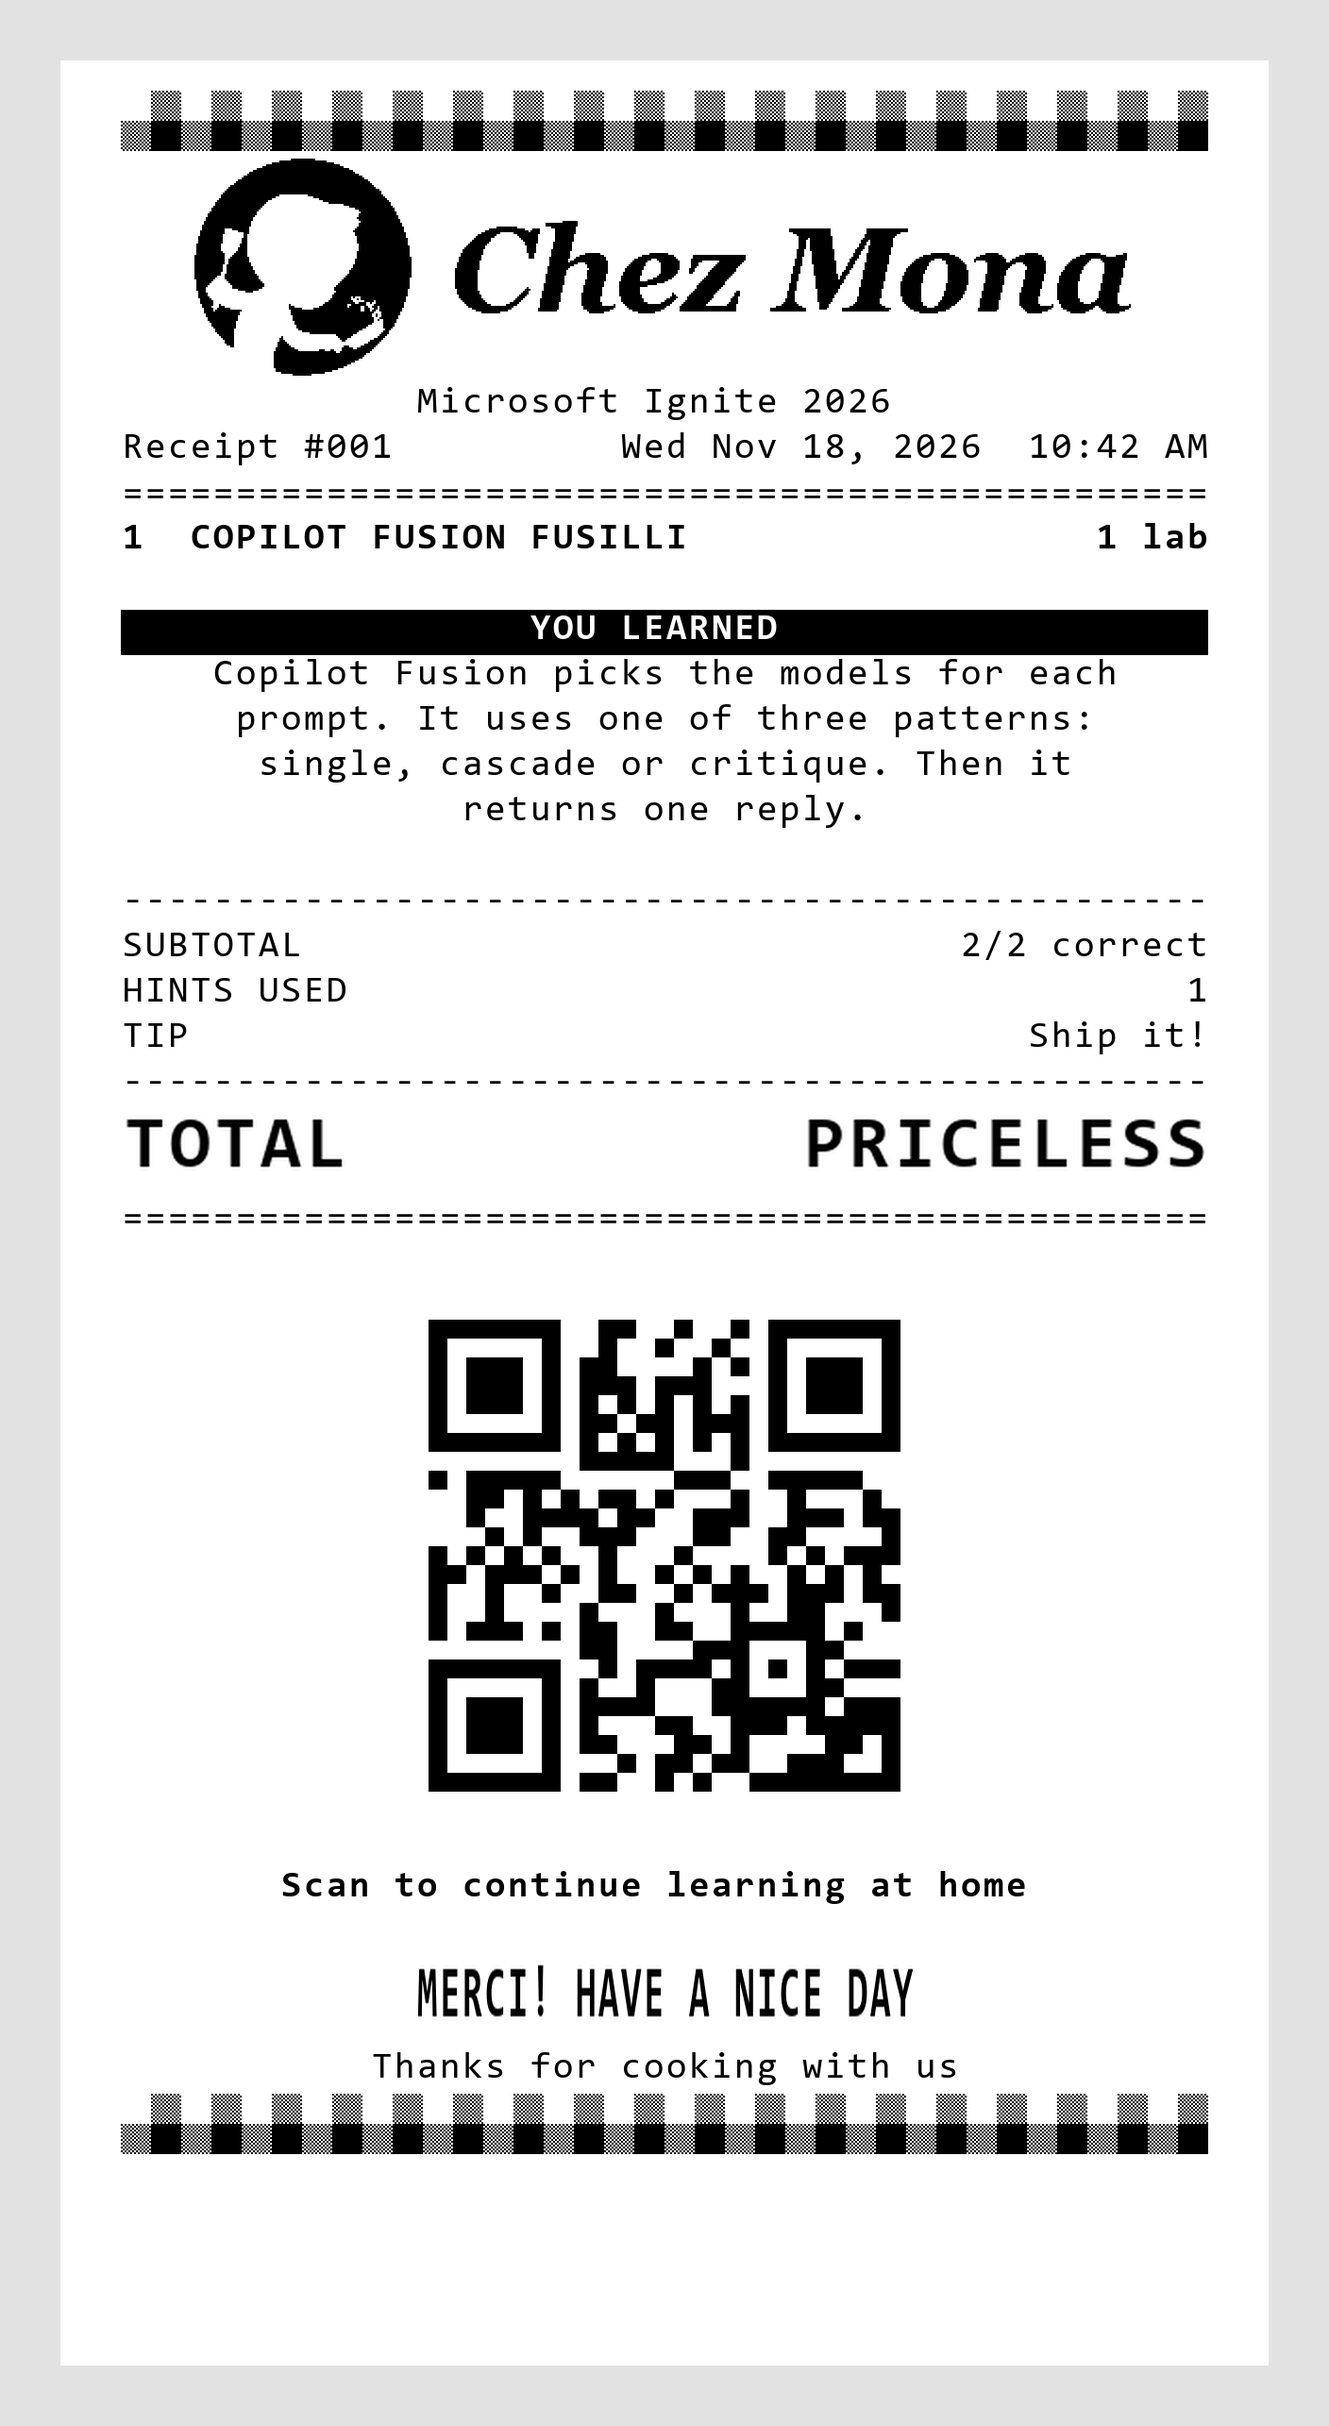
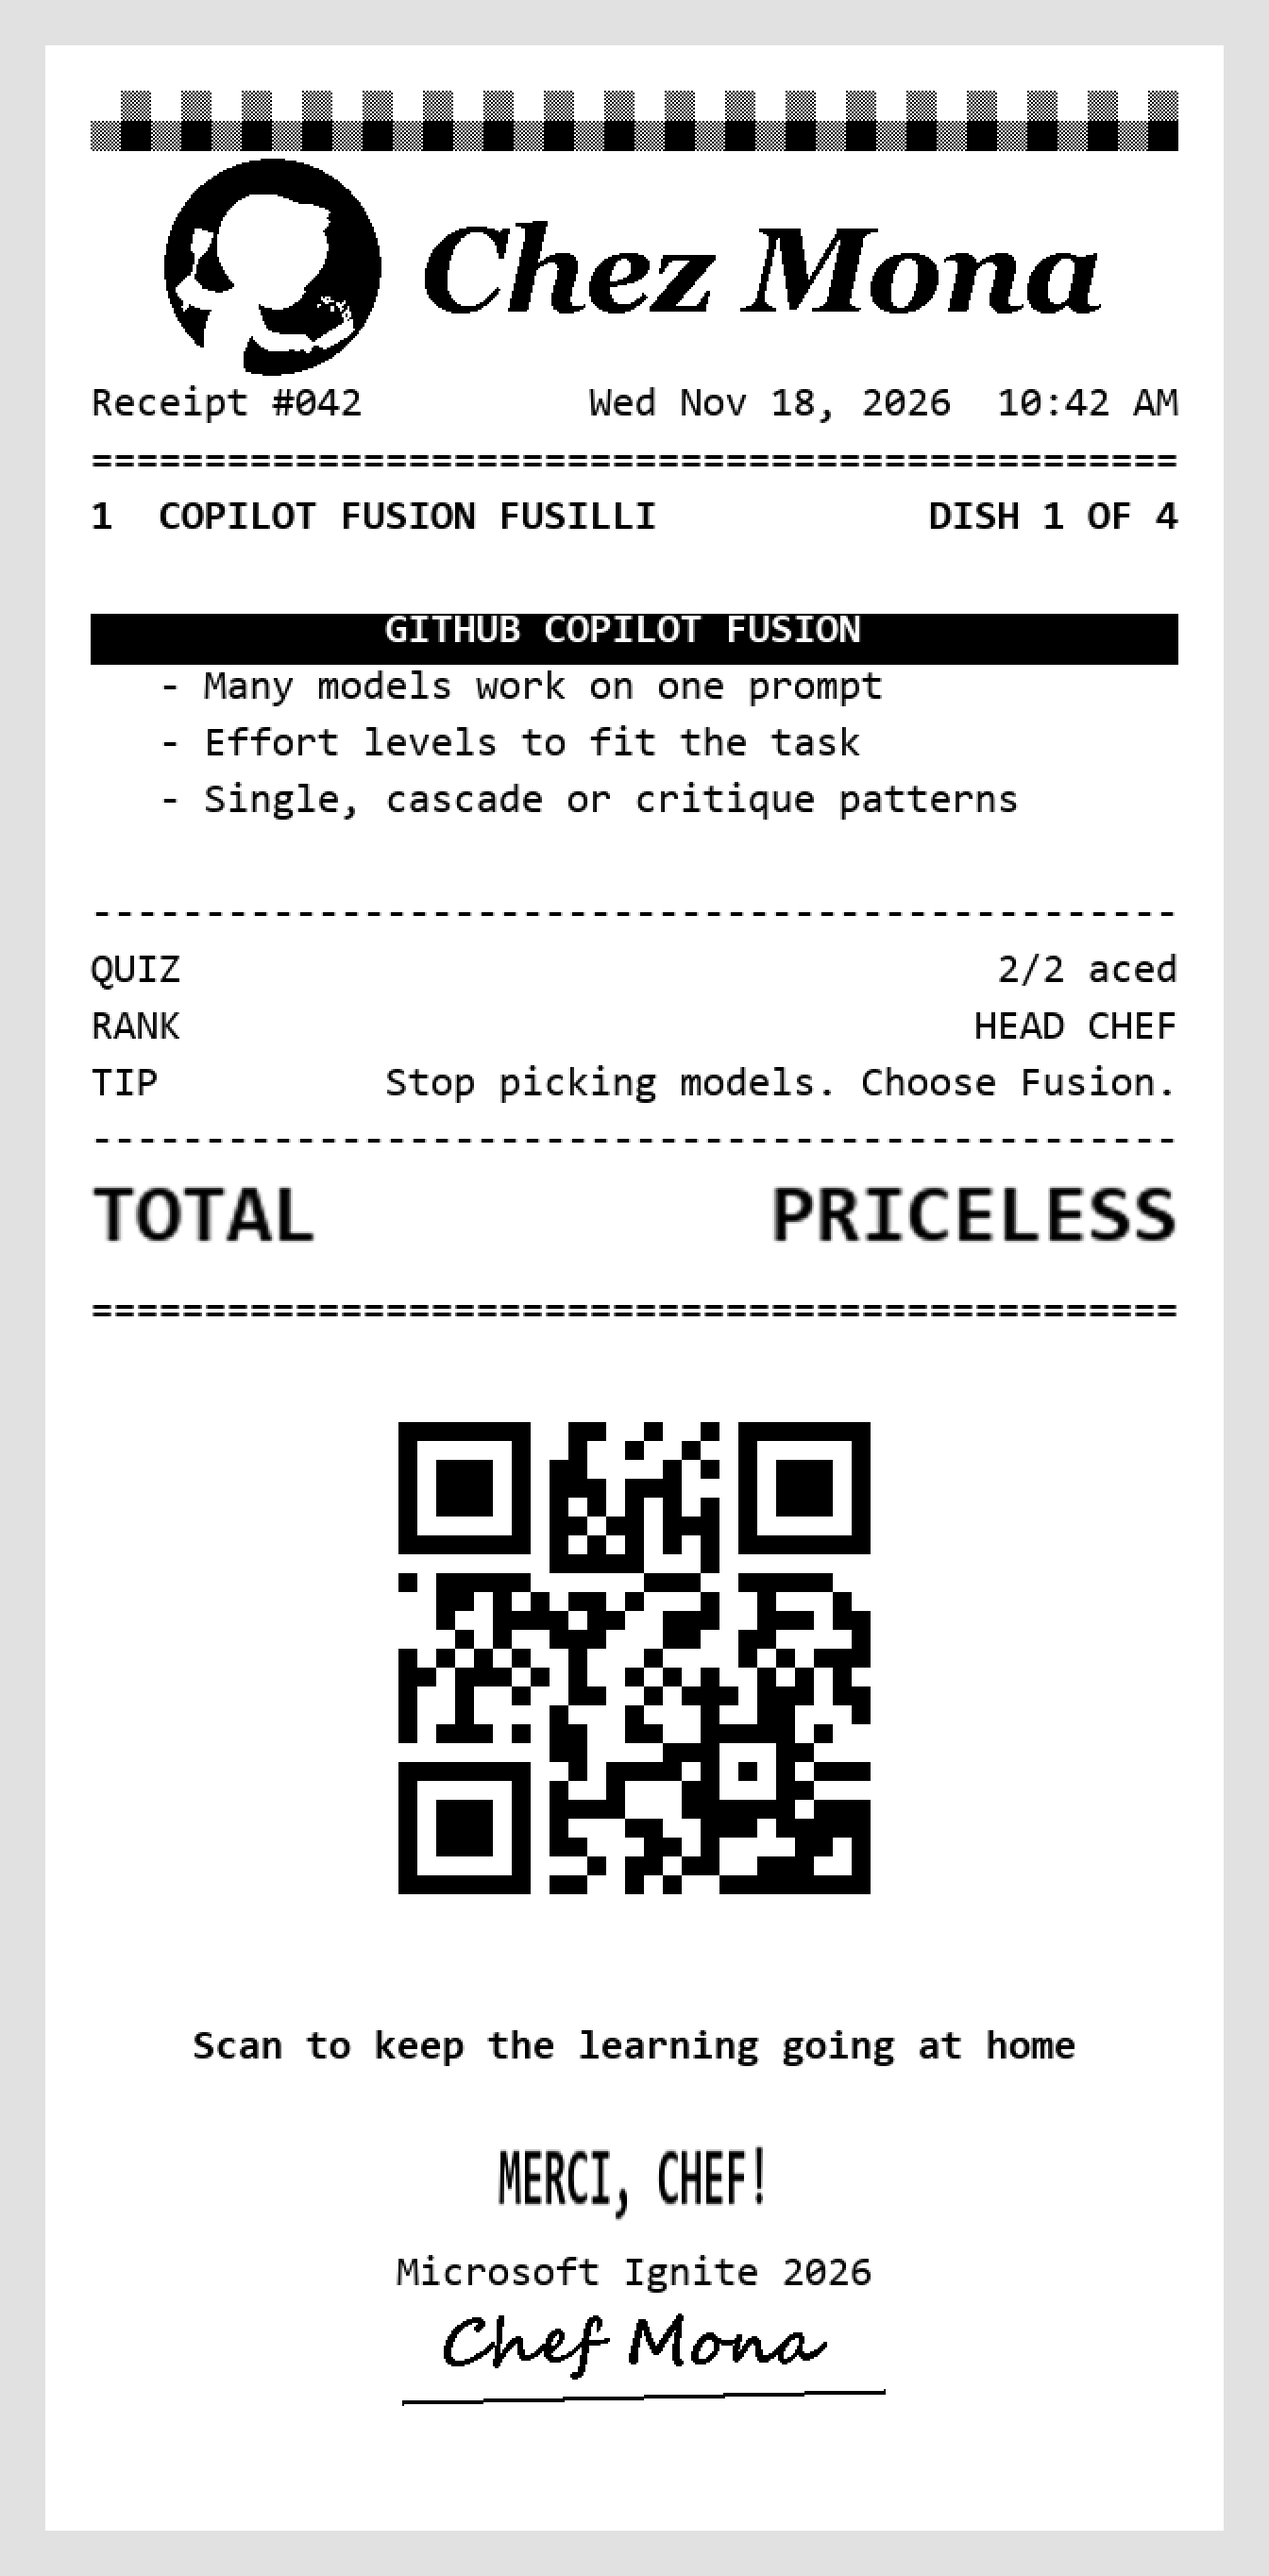
Make the station receipt a keepsake
Replace the receipt summary with a product name, three bullets and a
product tip. Add the dish position, a kitchen rank from hints, Ignite
branding and a Chef Mona signature. Wrap long right-side row text so it
fits narrow paper. Refresh the receipt screenshot.

Changed region(s): [[0.0312, 0.0, 0.9688, 0.9961], [0.0938, 0.7782, 0.9062, 0.9339], [0.3125, 0.4047, 0.375, 0.4358]]

diff --git a/launcher/chez_mona/receipt.py b/launcher/chez_mona/receipt.py
@@ -19,9 +19,10 @@ from PIL import Image, ImageDraw, ImageFont
 
 HEADER = "Chez Mona"
 EVENT = "Microsoft Ignite 2026"
-QR_CAPTION = "Scan to continue learning at home"
-THANKS = "Merci! Have a nice day"
-THANKS_LINE = "Thanks for cooking with us"
+QR_CAPTION = "Scan to keep the learning going at home"
+THANKS = "Merci, chef!"
+SIGNATURE = "Chef Mona"
+SIGNATURE_FONT = "segoescb.ttf"  # Segoe Script Bold
 TICKET_BAR = "Kitchen ticket"
 TICKET_CAPTION = "Take this to any open station and scan it"
 FONT_A_WIDTH = 12  # dots per character, Font A at normal size
@@ -107,45 +108,55 @@ def ticket_layout(dish: dict, at: datetime) -> list[Item]:
 
 @dataclass
 class Check:
-    """One printed receipt. hints holds wrong answers per question, or None if unknown."""
+    """One printed receipt. hints holds wrong answers per question, or None if unknown.
+    course is the dish position and the dish count, like (2, 4), or None if unknown."""
     at: datetime
     hints: list[int] | None = None
     number: int | None = None
+    course: tuple[int, int] | None = None
+
+
+def rank(hints: int) -> str:
+    """Kitchen rank from the total wrong answers."""
+    if hints == 0:
+        return "HEAD CHEF"
+    return "SOUS CHEF" if hints <= 2 else "LINE COOK"
 
 
 def layout(dish: dict, check: Check) -> list[Item]:
     """Take-home receipt printed at a cooking station. None is a blank line."""
     answered = len(dish["quiz"])
+    card = dish["receipt"]
+    course = f"DISH {check.course[0]} OF {check.course[1]}" if check.course else ""
     items: list[Item] = [
         Picture("gingham", gingham),
         Picture("wordmark", wordmark),
-        Line(EVENT),
         Row(f"Receipt #{check.number:03d}",
             f"{check.at:%a %b} {check.at.day}, {check.at:%Y}  {clock(check.at)}")
         if check.number is not None else
         Line(f"{check.at:%a %b} {check.at.day}, {check.at:%Y}  {clock(check.at)}"),
         Rule("="),
-        Row(f"1  {dish['dish'].upper()}", "1 lab", bold=True),
+        Row(f"1  {dish['dish'].upper()}", course, bold=True),
         None,
-        Line("YOU LEARNED", bold=True, invert=True),
-        Line(dish["receipt"]["summary"], margin=3),
+        Line(card["product"].upper(), bold=True, invert=True),
+        *[Line(point, align="left", indent=3, bullet="- ") for point in card["bullets"]],
         None,
         Rule(),
-        Row("SUBTOTAL", f"{answered}/{answered} correct"),
+        Row("QUIZ", f"{answered}/{answered} aced"),
     ]
     if check.hints is not None:
-        items.append(Row("HINTS USED", str(sum(check.hints))))
+        items.append(Row("RANK", rank(sum(check.hints))))
     items += [
-        Row("TIP", "Ship it!"),
+        Row("TIP", card["tip"]),
         Rule(),
         Row("TOTAL", "PRICELESS", bold=True, size=2),
         Rule("="),
-        Qr(dish["receipt"]["qr"]),
+        Qr(card["qr"]),
         Line(QR_CAPTION, bold=True),
         None,
         Line(THANKS.upper(), height=2, bold=True),
-        Line(THANKS_LINE),
-        Picture("gingham", gingham),
+        Line(EVENT),
+        Picture("signature", signature),
     ]
     return items
 
@@ -197,6 +208,19 @@ def wordmark(width_dots: int) -> Image.Image:
     image.paste(disc, (x, 4))
     y = (image.height - (bottom - top)) // 2 - top
     ImageDraw.Draw(image).text((x + disc.width + gap - left, y), HEADER, font=face, fill=0)
+    return image
+
+
+def signature(width_dots: int) -> Image.Image:
+    """"Chef Mona" in a script font over a slanted pen stroke."""
+    face = font(SIGNATURE_FONT, int(width_dots * 0.06))
+    left, top, right, bottom = ImageDraw.Draw(Image.new("1", (1, 1))).textbbox((0, 0), SIGNATURE, font=face)
+    image = Image.new("1", (width_dots, bottom - top + 18), 1)
+    draw = ImageDraw.Draw(image)
+    x = (width_dots - (right - left)) // 2
+    draw.text((x - left, 2 - top), SIGNATURE, font=face, fill=0)
+    y = bottom - top + 8
+    draw.line([(x - 20, y + 6), (x + right - left + 30, y)], fill=0, width=3)
     return image
 
 
@@ -266,9 +290,9 @@ def _row_lines(row: Row, columns: int) -> list[str]:
     left, right = plain(row.left), plain(row.right)
     lines = textwrap.wrap(left, columns)
     last = lines.pop() if lines else ""
-    if len(last) + len(right) + 1 > columns:
-        return lines + ([last, right.rjust(columns)] if last else [right.rjust(columns)])
-    return lines + [last + right.rjust(columns - len(last))]
+    if not right or len(last) + len(right) + 1 <= columns:
+        return lines + [last + right.rjust(columns - len(last))]
+    return lines + ([last] if last else []) + [part.rjust(columns) for part in textwrap.wrap(right, columns)]
 
 
 def render_escpos(items: list[Item], width_dots: int) -> bytes:

diff --git a/launcher/tests/test_receipt.py b/launcher/tests/test_receipt.py
@@ -27,18 +27,27 @@ class ReceiptTest(unittest.TestCase):
             data = receipt.escpos(DISHES["dip"], receipt.Check(AT, [0, 1]), width)
             self.assertTrue(data.startswith(b"\x1b@\x1ba\x01"))
             self.assertTrue(data.endswith(b"\x1bd\x04\x1dV\x42\x00"))
-            for text in (b"Thanks for cooking with us", b"DIP", b"Wed Nov 18, 2026", b"PRICELESS", b"Scan to continue learning", b"YOU LEARNED"):
+            for text in (b"MERCI, CHEF!", b"Microsoft Ignite 2026", b"DIP", b"Wed Nov 18, 2026", b"PRICELESS",
+                         b"CODE SCANNING + COPILOT"):
                 self.assertIn(text, data)
             if width == receipt.WIDTH_DOTS:
                 self.assertIn(receipt.QR_CAPTION.encode("ascii"), data)
+                self.assertIn(b"Ask Copilot to review your next PR", data)
             self.assertNotIn(b"No.", data)
             self.assertNotIn(b"GUEST CHECK", data)
 
-    def test_receipt_prints_the_summary_not_the_questions(self):
+    def test_receipt_prints_the_bullets_not_the_questions(self):
         dish = DISHES["fusilli"]
         texts = [line for line, _ in printed_lines(receipt.layout(dish, receipt.Check(AT)), 576)]
-        self.assertIn("Copilot Fusion picks the models for each", texts)
+        self.assertIn("   - Many models work on one prompt", texts)
         self.assertFalse(any(dish["quiz"][0]["question"] in t for t in texts))
+
+    def test_dish_position_only_when_known(self):
+        def dish_row(check):
+            return next(i.right for i in receipt.layout(DISHES["soup"], check) if isinstance(i, receipt.Row))
+
+        self.assertEqual(dish_row(receipt.Check(AT, course=(3, 4))), "DISH 3 OF 4")
+        self.assertEqual(dish_row(receipt.Check(AT)), "")
 
     def test_receipt_number_beside_date_and_time(self):
         for number in (1, 24, 1000):
@@ -54,20 +63,32 @@ class ReceiptTest(unittest.TestCase):
                 for line, columns in printed_lines(items, width):
                     self.assertLessEqual(len(line), columns, line)
 
-    def test_hint_line_only_when_hints_are_known(self):
+    def test_rank_only_when_hints_are_known(self):
         def rows(check):
-            return [i.left for i in receipt.layout(DISHES["soup"], check) if isinstance(i, receipt.Row)]
+            return {i.left: i.right for i in receipt.layout(DISHES["soup"], check) if isinstance(i, receipt.Row)}
 
-        self.assertIn("HINTS USED", rows(receipt.Check(AT, hints=[0, 2])))
-        self.assertNotIn("HINTS USED", rows(receipt.Check(AT)))
+        self.assertEqual(rows(receipt.Check(AT, hints=[0, 0]))["RANK"], "HEAD CHEF")
+        self.assertEqual(rows(receipt.Check(AT, hints=[0, 2]))["RANK"], "SOUS CHEF")
+        self.assertEqual(rows(receipt.Check(AT, hints=[1, 2]))["RANK"], "LINE COOK")
+        self.assertNotIn("RANK", rows(receipt.Check(AT)))
 
     def test_text_fits_the_paper(self):
         for width in (384, 576):
             for dish in DISHES.values():
-                for items in (receipt.layout(dish, receipt.Check(AT, [3, 3])),
+                for items in (receipt.layout(dish, receipt.Check(AT, [3, 3], 1000, (2, 4))),
                               receipt.ticket_layout(dish, AT)):
                     for line, columns in printed_lines(items, width):
                         self.assertLessEqual(len(line), columns, line)
+
+    def test_receipt_copy_fits_one_line_on_the_station_printer(self):
+        columns = receipt.WIDTH_DOTS // receipt.FONT_A_WIDTH
+        for dish in DISHES.values():
+            items = [i for i in receipt.layout(dish, receipt.Check(AT, [0, 0])) if isinstance(i, receipt.Line)]
+            for item in items:
+                if item.text in dish["receipt"]["bullets"] or item.text == dish["receipt"]["product"].upper():
+                    self.assertEqual(len(receipt._text_lines(item, columns)), 1, item.text)
+            tip = receipt.Row("TIP", dish["receipt"]["tip"])
+            self.assertEqual(len(receipt._row_lines(tip, columns)), 1, tip.right)
 
     def test_pictures_span_the_paper(self):
         for width in (384, 576):

diff --git a/launcher/chez_mona/labs.py b/launcher/chez_mona/labs.py
@@ -13,7 +13,9 @@ CONTENT_DIR = LAUNCHER_DIR / "content"
 STATIC_DIR = LAUNCHER_DIR / "static"
 START_TYPES = {"none", "sdk", "open_url"}
 ACTION_TYPES = {"open_url", "open_vscode"}
-SUMMARY_MAX = 180  # about 4 receipt lines
+PRODUCT_MAX = 48  # one receipt line
+BULLET_MAX = 43  # one receipt line after the "   - " indent
+TIP_MAX = 44  # one receipt line beside "TIP"
 
 
 class ContentError(ValueError):
@@ -75,9 +77,14 @@ def validate(data: dict, content_dir: Path = CONTENT_DIR) -> None:
             _check(len(set(others + [q["answer"]])) == 4, f"{did} question {i}: choices must be unique")
         _check(dish.get("wrap_up"), f"{did}: needs wrap_up")
         receipt = dish.get("receipt", {})
-        summary = receipt.get("summary")
-        _check(isinstance(summary, str) and summary.strip() and len(summary) <= SUMMARY_MAX,
-               f"{did}: receipt summary needs 1 short paragraph, up to {SUMMARY_MAX} characters")
+        product, bullets, tip = receipt.get("product"), receipt.get("bullets"), receipt.get("tip")
+        _check(isinstance(product, str) and product.strip() and len(product) <= PRODUCT_MAX,
+               f"{did}: receipt product needs a name, up to {PRODUCT_MAX} characters")
+        _check(isinstance(bullets, list) and len(bullets) == 3
+               and all(isinstance(b, str) and b.strip() and len(b) <= BULLET_MAX for b in bullets),
+               f"{did}: receipt bullets needs 3 points, each up to {BULLET_MAX} characters")
+        _check(isinstance(tip, str) and tip.strip() and len(tip) <= TIP_MAX,
+               f"{did}: receipt tip needs 1 line, up to {TIP_MAX} characters")
         _check(receipt.get("qr", "").startswith("https://"), f"{did}: receipt needs https qr")
 
 

diff --git a/launcher/tests/test_content.py b/launcher/tests/test_content.py
@@ -29,10 +29,14 @@ class LabsTest(unittest.TestCase):
         self.assert_rejected(lambda d: d["dishes"][2]["steps"][0].update(markdown="soup/missing.md"))
         self.assert_rejected(lambda d: d["dishes"][1].update(id="fusilli"))
         self.assert_rejected(lambda d: d["dishes"][0]["receipt"].pop("qr"))
-        self.assert_rejected(lambda d: d["dishes"][0]["receipt"].update(summary=["A list"]))
-        self.assert_rejected(lambda d: d["dishes"][0]["receipt"].update(summary=" "))
-        self.assert_rejected(lambda d: d["dishes"][0]["receipt"].update(summary="x" * 181))
-        self.assert_rejected(lambda d: d["dishes"][0]["receipt"].pop("summary"))
+        self.assert_rejected(lambda d: d["dishes"][0]["receipt"].pop("product"))
+        self.assert_rejected(lambda d: d["dishes"][0]["receipt"].update(product="x" * 49))
+        self.assert_rejected(lambda d: d["dishes"][0]["receipt"].update(bullets="One string"))
+        self.assert_rejected(lambda d: d["dishes"][0]["receipt"]["bullets"].pop())
+        self.assert_rejected(lambda d: d["dishes"][0]["receipt"]["bullets"].__setitem__(0, " "))
+        self.assert_rejected(lambda d: d["dishes"][0]["receipt"]["bullets"].__setitem__(0, "x" * 44))
+        self.assert_rejected(lambda d: d["dishes"][0]["receipt"].pop("tip"))
+        self.assert_rejected(lambda d: d["dishes"][0]["receipt"].update(tip="x" * 45))
         self.assert_rejected(lambda d: d["dishes"][0].pop("pitch"))
         self.assert_rejected(lambda d: d["dishes"][0]["steps"][0].update(body=" "))
         self.assert_rejected(lambda d: d["dishes"][0]["steps"][0].update(image="steps/missing.png", alt="x"))

diff --git a/launcher/chez_mona/server.py b/launcher/chez_mona/server.py
@@ -84,7 +84,9 @@ class Launcher:
         with self.receipt_lock:
             counts = stats.summary(list(self.dishes), self.stats_path)
             number = sum(c["receipt"] for c in counts.values()) + 1
-            job = printer.submit_usb(receipt.escpos(dish, receipt.Check(datetime.now(), hints, number)))
+            course = (list(self.dishes).index(dish_id) + 1, len(self.dishes))
+            check = receipt.Check(datetime.now(), hints, number, course)
+            job = printer.submit_usb(receipt.escpos(dish, check))
             stats.record("receipt", dish_id, self.stats_path)
         return {"status": "sent", "job": job}
 
